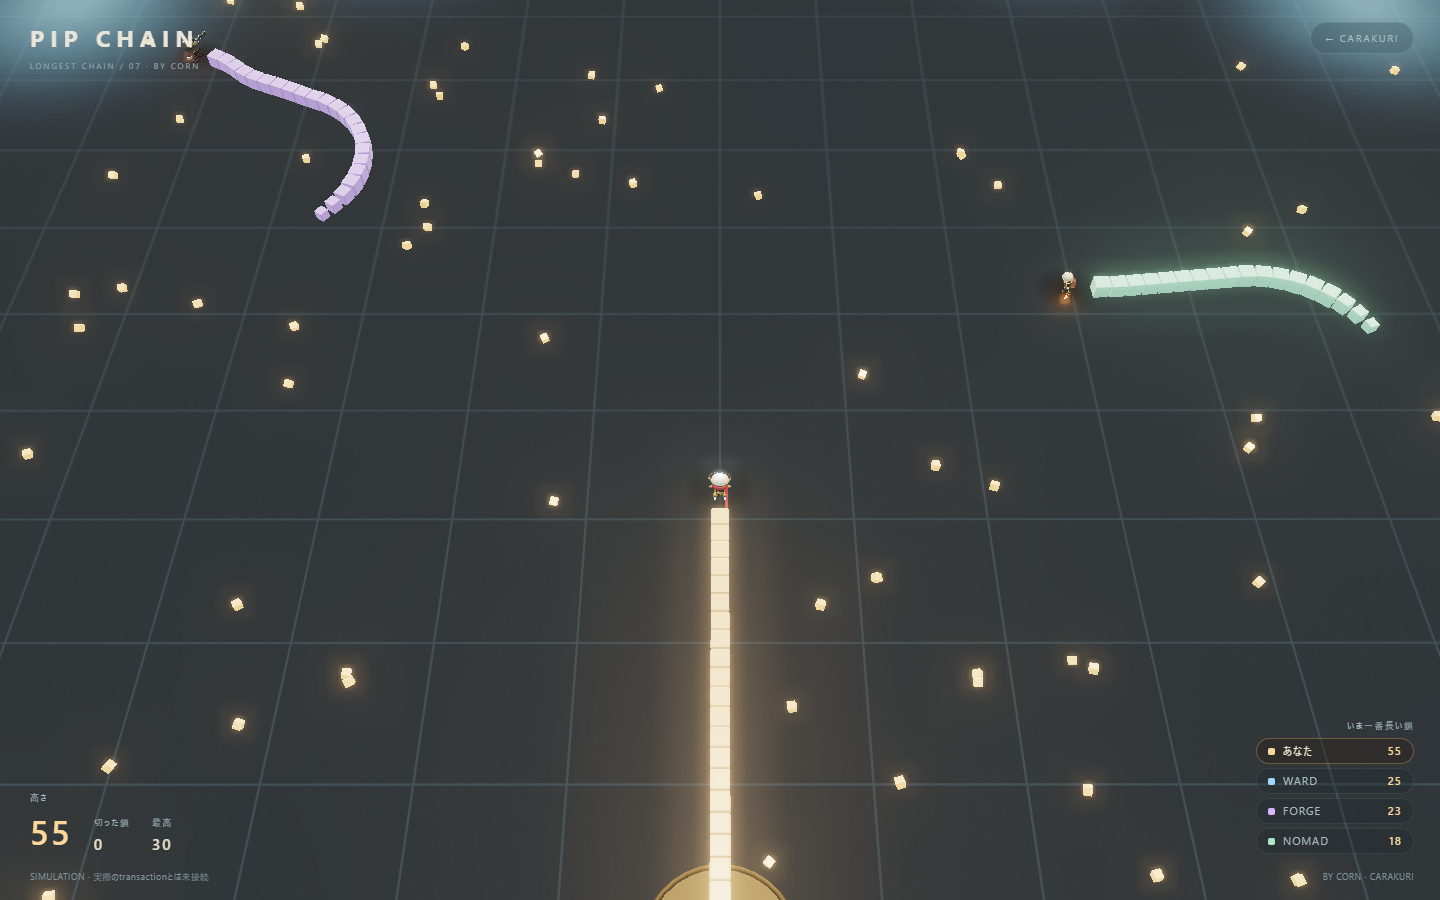
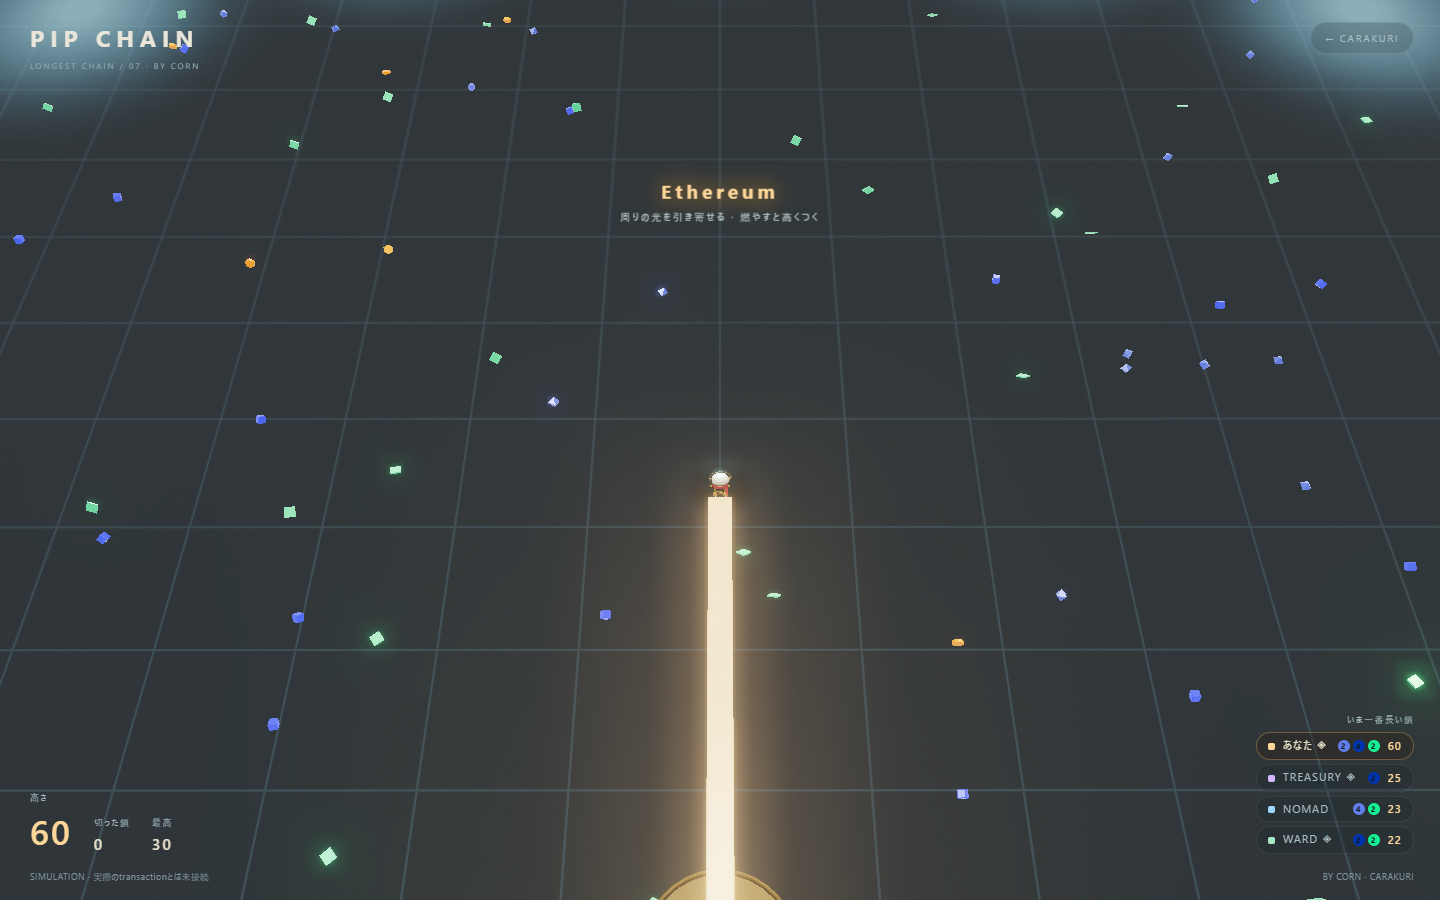
chain: four kinds of block, logarithmic girth, and the price of it
The floor now deals Bitcoin, Ethereum, Cardano and Solana, each its own
shape as well as its own colour (a hex coin, a diamond, the block, a
tile), and each its own instanced mesh so the floor is still drawn in
four calls. Solana is dealt most, Bitcoin least.

Picking one up does what the chain it came from suggests: Bitcoin is
worth two but weighs on the turn for a moment; Ethereum pulls the floor
in around the head and makes burning dearer while it lasts; Cardano
leaves a shield that takes the next hit for one block; Solana is just
plentiful. Every chain, not only the player's, gets these.

Girth is now log1p(len/40), so a long chain reads as stout without
burying the field mid-run, and it costs something: the turn is divided
by the girth and the head's reach grows with it. Burning still takes
the oldest block.

The board shows each chain's mix as counted dots and marks a held
shield. The rules card lists the four kinds. The test lays down a
Solana block for the plain growth check, adds checks for the three
effects and the shield, and clears shields before the collision
checks, since a chain that picked up Cardano on the way would survive.

diff --git a/chain/viewer.js b/chain/viewer.js
@@ -5,7 +5,7 @@ import {RenderPass} from 'three/addons/postprocessing/RenderPass.js';
 import {UnrealBloomPass} from 'three/addons/postprocessing/UnrealBloomPass.js';
 import {OutputPass} from 'three/addons/postprocessing/OutputPass.js';
 import {RACERS,racerById,pickClip} from '../racer/racers.js';
-import {buildField,buildBody,buildLoose,buildBlobShadow,buildBurst,buildGear,FIELD,SEG_GAP,HEAD_GAP,HUES} from './model.js';
+import {buildField,buildBody,buildLoose,buildBlobShadow,buildBurst,buildGear,FIELD,SEG_GAP,HEAD_GAP,HUES,KINDS} from './model.js';
 
 const $=s=>document.querySelector(s);
 
@@ -23,6 +23,14 @@ const EAT_R=1.7, HIT_R=.85;
 const LOOSE_MAX=680, SEED_TARGET=300, SEED_RATE=7;
 const AI_COUNT=3, AI_LOOK=10.5, RESPAWN=2.6;
 const GEAR_TIME=4.5, GEAR_EVERY=9, GEAR_LIFE=12, GEAR_MAX=2;
+// What each kind of block does when it is picked up. Bitcoin is worth two but
+// sits heavy on the turn for a moment; Ethereum pulls the floor in around the
+// head and makes burning dearer while it does; Cardano leaves a shield that
+// takes the next hit for one block; Solana is just plentiful.
+const BTC=0,ETH=1,ADA=2,SOL=3;
+const SLOW_TIME=3.2, SLOW_TURN=.7;
+const MAGNET_TIME=3.0, MAGNET_R=8, MAGNET_PULL=13, MAGNET_BURN=.55;
+const SHIELD_MAX=1, SHIELD_GRACE=.6;
 const LETHAL=FIELD-.5;
 
 const renderer=new T.WebGLRenderer({antialias:true});
@@ -48,15 +56,23 @@ const bloom=new UnrealBloomPass(new T.Vector2(innerWidth,innerHeight),.30,.72,.9
 composer.addPass(bloom);composer.addPass(new OutputPass());
 
 // --- loose transactions: flat arrays, swapped in from the end when one is taken ---
-const loose={n:0,x:new Float32Array(LOOSE_MAX),z:new Float32Array(LOOSE_MAX),r:new Float32Array(LOOSE_MAX)};
-const looseMesh=buildLoose(LOOSE_MAX);scene.add(looseMesh);
-function addLoose(x,z){
+const loose={n:0,x:new Float32Array(LOOSE_MAX),z:new Float32Array(LOOSE_MAX),r:new Float32Array(LOOSE_MAX),k:new Uint8Array(LOOSE_MAX)};
+const looseMeshes=buildLoose(LOOSE_MAX);for(const m of looseMeshes)scene.add(m);
+// The floor deals kinds by weight: Solana most, Bitcoin least.
+const KW=KINDS.map(k=>k.weight),KW_SUM=KW.reduce((a,b)=>a+b,0);
+function dealKind(){
+ let r=Math.random()*KW_SUM;
+ for(let i=0;i<KW.length;i++){r-=KW[i];if(r<=0)return i;}
+ return KW.length-1;
+}
+function addLoose(x,z,kind){
  if(loose.n>=LOOSE_MAX)return;
  const i=loose.n++;loose.x[i]=x;loose.z[i]=z;loose.r[i]=Math.random()*9;
+ loose.k[i]=kind===undefined?dealKind():kind;
 }
 function takeLoose(i){
  const j=--loose.n;
- loose.x[i]=loose.x[j];loose.z[i]=loose.z[j];loose.r[i]=loose.r[j];
+ loose.x[i]=loose.x[j];loose.z[i]=loose.z[j];loose.r[i]=loose.r[j];loose.k[i]=loose.k[j];
 }
 function scatter(n){
  for(let k=0;k<n;k++){
@@ -110,6 +126,7 @@ function makeChain(i,entry){
   px:new Float32Array(CAP),pz:new Float32Array(CAP),n:0,
   x:0,z:0,a:0,len:START_LEN,alive:false,wait:0,
   boost:false,burn:0,gear:0,hunt:0,huntIn:4+Math.random()*7,cut:0,peak:START_LEN,
+  slow:0,magnet:0,shield:0,grace:0,got:[0,0,0,0],
  };
 }
 function setMotion(ch,name){
@@ -134,6 +151,7 @@ function seed(ch,x,z,a){
   ch.px[ch.n%CAP]=x-dx*k*STEP;ch.pz[ch.n%CAP]=z-dz*k*STEP;ch.n++;
  }
  ch.len=START_LEN;ch.peak=START_LEN;ch.alive=true;ch.wait=0;ch.boost=false;ch.burn=0;ch.gear=0;
+ ch.slow=0;ch.magnet=0;ch.shield=0;ch.grace=0;ch.got=[0,0,0,0];
  ch.fig.root.visible=true;
  layout(ch);
 }
@@ -190,7 +208,11 @@ function advance(ch,dist){
 const wrap=a=>{while(a>Math.PI)a-=Math.PI*2;while(a<-Math.PI)a+=Math.PI*2;return a;};
 // How stout this chain's blocks are: the length shows on the body itself, and
 // on what the body can catch.
-function scaleOf(ch){return 1+Math.min(ch.len/MAX_LEN,1)*.55;}
+// Logarithmic, so a long chain is visibly stout without filling the field by
+// the middle of a run the way a straight ratio did.
+function scaleOf(ch){return 1+Math.log1p(ch.len/40)*.38;}
+// How wide the head catches: a stout head gathers more, and cannot slip past.
+function eatR(ch){return EAT_R+(scaleOf(ch)-1)*.9;}
 function steer(ch,want,rate,dt){
  const d=wrap(want-ch.a),m=rate*dt;
  ch.a=wrap(ch.a+(Math.abs(d)<m?d:Math.sign(d)*m));
@@ -228,7 +250,7 @@ function drive(ch,dt){
   const score=reach*1.6-Math.abs(wrap(a-want))*2.4;
   if(score>bestScore){bestScore=score;bestA=a;}
  }
- steer(ch,bestA,AI_TURN,dt);
+ steer(ch,bestA,AI_TURN*(ch.slow>0?SLOW_TURN:1)/Math.sqrt(scaleOf(ch)),dt);
  ch.boost=ch.hunt>0&&ch.len>24;
 }
 
@@ -268,6 +290,7 @@ const sfx={
  // Every block picked up climbs a step; the ladder starts over as it wraps.
  pick(len){tone(500+(len%12)*30,.09,'triangle',.1,1.4);},
  gear(){tone(880,.08,'triangle',.1);tone(1320,.1,'triangle',.1,1,.07);},
+ shield(){tone(420,.16,'triangle',.12,1.6);tone(640,.18,'sine',.1,1.2,.06);},
  burn(){tone(230,.05,'square',.05,.75);},
  cut(){tone(340,.26,'sawtooth',.13,.45);tone(1100,.14,'triangle',.09,.6,.03);},
  down(){tone(160,.55,'sawtooth',.16,.4);tone(90,.6,'sine',.14,.6,.08);},
@@ -381,12 +404,19 @@ function hud(){
  const rank=chains.slice().sort((p,q)=>q.len-p.len);
  const board=$('#board');
  if(board.children.length!==rank.length)
-  board.innerHTML=rank.map(()=>'<li><i></i><span></span><b></b></li>').join('');
+  board.innerHTML=rank.map(()=>'<li><i></i><span></span><em class="mix">'+KINDS.map(k=>'<u style="--k:#'+k.color.toString(16).padStart(6,'0')+'"></u>').join('')+'</em><b></b></li>').join('');
  [...board.children].forEach((li,k)=>{
   const c=rank[k];
   li.className=c.i===0?'you':'';
   li.querySelector('i').style.background='#'+c.hue.color.toString(16).padStart(6,'0');
-  li.querySelector('span').textContent=c.name;
+  li.querySelector('span').textContent=c.name+(c.shield>0?' ◈':'');
+  // The mix: one dot per kind, carrying how many of it this chain has taken.
+  const dots=li.querySelectorAll('.mix u');
+  for(let j=0;j<4;j++){
+   const n=c.got[j];
+   dots[j].textContent=n>0?n:'';
+   dots[j].classList.toggle('on',n>0);
+  }
   li.querySelector('b').textContent=c.alive?c.len:'—';
  });
 }
@@ -402,25 +432,32 @@ function step(dt){
    continue;
   }
   if(ch.i===0){
-   if(ctl.mode==='keys'&&(ctl.left||ctl.right))ch.a=wrap(ch.a+((ctl.left?1:0)-(ctl.right?1:0))*TURN*dt);
+   // The price of length: a stout chain turns like one. Bitcoin sits on the
+   // turn as well for a moment after it is taken.
+   const turn=TURN*(ch.slow>0?SLOW_TURN:1)/scaleOf(ch);
+   if(ctl.mode==='keys'&&(ctl.left||ctl.right))ch.a=wrap(ch.a+((ctl.left?1:0)-(ctl.right?1:0))*turn*dt);
    else{
     const want=ctl.mode==='stick'?ctl.dir:Math.atan2(ctl.tx-ch.x,ctl.tz-ch.z);
     // A gentle wish gets the gentle circle; a wish for the opposite direction
     // is answered hard, so a reversal is a snap rather than a wide arc.
-    const rate=TURN*(1+1.7*Math.min(1,Math.abs(wrap(want-ch.a))/Math.PI));
+    const rate=turn*(1+1.7*Math.min(1,Math.abs(wrap(want-ch.a))/Math.PI));
     steer(ch,want,rate,dt);
    }
    ch.boost=ctl.boost;
   }else drive(ch,dt);
 
   if(ch.gear>0)ch.gear-=dt;
+  if(ch.slow>0)ch.slow-=dt;
+  if(ch.magnet>0)ch.magnet-=dt;
+  if(ch.grace>0)ch.grace-=dt;
   const burning=ch.boost&&ch.len>MIN_BOOST&&ch.gear<=0; // a turning gear pays instead
   const fast=burning||ch.gear>0;
   advance(ch,(fast?BOOST_SPEED:SPEED)*dt);
   if(burning){
    ch.burn+=dt;
-   while(ch.burn>=BURN_EVERY&&ch.len>MIN_BOOST){
-    ch.burn-=BURN_EVERY;
+   const every=BURN_EVERY*(ch.magnet>0?MAGNET_BURN:1); // dearer while the magnet runs
+   while(ch.burn>=every&&ch.len>MIN_BOOST){
+    ch.burn-=every;
     const tail=ch.seg[ch.len-1];
     addLoose(tail.x,tail.z);ch.len--;
     if(ch.i===0)sfx.burn();
@@ -448,18 +485,47 @@ function step(dt){
    }
    if(hitBy)break;
   }
-  if(hitBy)kill(ch,hitBy);
+  if(hitBy){
+   if(ch.grace>0)continue;
+   if(ch.shield>0&&ch.len>MIN_BOOST){
+    // The shield takes it: one block gone from the tail, and a breath of grace
+    // so the same body does not take the head again on the next frame.
+    ch.shield--;ch.grace=SHIELD_GRACE;
+    const tail=ch.seg[ch.len-1];addLoose(tail.x,tail.z,ADA);ch.len--;
+    burst(ch.x,ch.z,0x1a4dff);
+    if(ch.i===0){flash('盾が受けた','ブロック1つで耐えた');sfx.shield();}
+    continue;
+   }
+   kill(ch,hitBy);
+  }
  }
 
- // light off the floor
+ // light off the floor: what it is decides what it does
  for(const ch of chains){
   if(!ch.alive)continue;
+  const er=eatR(ch),er2=er*er,pulling=ch.magnet>0;
   for(let i=loose.n-1;i>=0;i--){
-   const dx=loose.x[i]-ch.x,dz=loose.z[i]-ch.z;
-   if(dx*dx+dz*dz<EAT_R*EAT_R){
+   let dx=loose.x[i]-ch.x,dz=loose.z[i]-ch.z,d2=dx*dx+dz*dz;
+   if(pulling&&d2<MAGNET_R*MAGNET_R&&d2>er2*.5){
+    const d=Math.sqrt(d2),m=Math.min(d,MAGNET_PULL*dt)/d;
+    loose.x[i]-=dx*m;loose.z[i]-=dz*m;
+    dx=loose.x[i]-ch.x;dz=loose.z[i]-ch.z;d2=dx*dx+dz*dz;
+   }
+   if(d2<er2){
+    const kind=loose.k[i];
     takeLoose(i);
-    if(ch.len<MAX_LEN)ch.len++;
-    if(ch.i===0)sfx.pick(ch.len);
+    ch.got[kind]++;
+    let gain=1;
+    if(kind===BTC){gain=2;ch.slow=SLOW_TIME;}
+    else if(kind===ETH){ch.magnet=MAGNET_TIME;}
+    else if(kind===ADA){if(ch.shield<SHIELD_MAX)ch.shield++;}
+    ch.len=Math.min(MAX_LEN,ch.len+gain);
+    if(ch.i===0){
+     sfx.pick(ch.len);
+     if(kind===BTC)flash('Bitcoin +2','数秒、曲がりが重い');
+     else if(kind===ETH)flash('Ethereum','周りの光を引き寄せる · 燃やすと高くつく');
+     else if(kind===ADA&&ch.shield===1&&ch.got[ADA]===1)flash('Cardano','次の一撃を盾が受ける');
+    }
    }
   }
  }
@@ -524,13 +590,17 @@ function draw(dt){
   ch.fig.tick(S.t,ch.motion,dt,0);
  }
  SC.set(1,1,1);
+ // Each kind is its own mesh, so the floor is walked once and every block is
+ // filed under the mesh that draws its shape.
+ const kn=[0,0,0,0];
  for(let i=0;i<loose.n;i++){
+  const k=loose.k[i];
   EU.set(S.t*1.2+loose.r[i],S.t*1.6+loose.r[i]*2,0);QT.setFromEuler(EU);
   V3.set(loose.x[i],.5+Math.sin(S.t*2.4+loose.r[i])*.11,loose.z[i]);
   M4.compose(V3,QT,SC);
-  looseMesh.setMatrixAt(i,M4);
+  looseMeshes[k].setMatrixAt(kn[k]++,M4);
  }
- looseMesh.count=loose.n;looseMesh.instanceMatrix.needsUpdate=true;
+ for(let k=0;k<4;k++){looseMeshes[k].count=kn[k];looseMeshes[k].instanceMatrix.needsUpdate=true;}
 
  for(const b of bursts){
   if(b.t>=1){b.o.visible=false;continue;}
@@ -582,5 +652,5 @@ const frame=()=>new Promise(r=>setTimeout(r,0));
  scatter(SEED_TARGET);draw(0);hud();
  $('#loading').classList.add('done');
  $('#start').onclick=start;
- window.pipChain={S,chains,loose,gears,scene,camera,start,kill,addLoose,scatter,ctl,best,stickDir,scaleOf};
+ window.pipChain={S,chains,loose,looseMeshes,KINDS,gears,scene,camera,start,kill,addLoose,scatter,ctl,best,stickDir,scaleOf,eatR};
 })();

diff --git a/chain/model.js b/chain/model.js
@@ -97,18 +97,31 @@ export function buildBody(hue,max){
  return mesh;
 }
 
-// Loose transactions lying on the floor. All of them are amber whether they
-// were laid out at the start or dropped by a chain that came apart, because in
-// both cases they are the same thing: work waiting to be picked up again.
+// Loose transactions lying on the floor, one kind per chain they came from.
+// Colour alone does not carry at this camera height on a block this small, so
+// each kind also has its own shape, and each kind is its own instanced mesh:
+// a hexagonal coin for Bitcoin, a diamond for Ethereum, the rounded block for
+// Cardano, a thin tile for Solana. Weight is how often the floor deals it.
+export const KINDS=[
+ {id:'btc',name:'Bitcoin', color:0xF7931A,emissive:0xb85e00,weight:.12,
+  geo:()=>new T.CylinderGeometry(.21,.21,.13,6)},
+ {id:'eth',name:'Ethereum',color:0x627EEA,emissive:0x2f45b8,weight:.18,
+  geo:()=>new T.OctahedronGeometry(.24,0)},
+ {id:'ada',name:'Cardano', color:0x0033AD,emissive:0x1a4dff,glow:1.3,weight:.25,
+  geo:()=>new RoundedBoxGeometry(.3,.3,.3,3,.03)},
+ {id:'sol',name:'Solana',  color:0x14F195,emissive:0x0a8f58,weight:.45,
+  geo:()=>new T.BoxGeometry(.4,.06,.4)},
+];
 export function buildLoose(max){
- const mesh=new T.InstancedMesh(
-  new RoundedBoxGeometry(.3,.3,.3,3,.03),
-  new T.MeshStandardMaterial({color:0xffdb8d,emissive:0xffa324,emissiveIntensity:.7,metalness:.25,roughness:.18}),
-  max);
- mesh.frustumCulled=false;
- mesh.castShadow=mesh.receiveShadow=false;
- mesh.count=0;
- return mesh;
+ return KINDS.map(k=>{
+  const mesh=new T.InstancedMesh(k.geo(),
+   new T.MeshStandardMaterial({color:k.color,emissive:k.emissive,emissiveIntensity:k.glow||.8,metalness:.3,roughness:.2}),
+   max);
+  mesh.frustumCulled=false;
+  mesh.castShadow=mesh.receiveShadow=false;
+  mesh.count=0;
+  return mesh;
+ });
 }
 
 // The one thing on the floor that is not a transaction: a gear. Whoever runs

diff --git a/chain/style.css b/chain/style.css
@@ -28,6 +28,13 @@ header{position:fixed;top:22px;left:30px;right:26px;display:flex;justify-content
 #board li i{width:7px;height:7px;border-radius:2px;flex:none}
 #board li span{flex:1;white-space:nowrap}
 #board li b{font-weight:600;color:#ffd79a}
+.rules li.kinds{font-size:.92em;line-height:1.9;display:flex;flex-wrap:wrap;gap:2px 16px}
+.rules li.kinds .kd{white-space:nowrap}
+.rules li.kinds i{display:inline-block;width:9px;height:9px;border-radius:2px;background:var(--k);margin:0 5px 0 0;vertical-align:-1px}
+/* the mix: one dot per kind, lit once the chain has taken any of it */
+#board li .mix{display:flex;gap:3px;align-items:center;font-style:normal}
+#board li .mix u{display:none;text-decoration:none;min-width:12px;height:12px;padding:0 3px;border-radius:6px;font-size:8px;line-height:12px;text-align:center;color:#0f1618;background:var(--k);font-weight:700}
+#board li .mix u.on{display:inline-block}
 
 #boost{pointer-events:auto;display:none;border:1px solid #e2705f55;border-radius:40px;background:#e2705f1f;color:#ffd0c4;font-size:11px;letter-spacing:3px;padding:16px 34px;backdrop-filter:blur(10px);-webkit-user-select:none;user-select:none}
 #boost:active{background:#e2705f4d}
@@ -75,6 +82,7 @@ button:focus-visible{outline:2px solid #e0cb87;outline-offset:3px}
  #board{min-width:0}
  #board li{font-size:9px;padding:4px 8px;gap:6px}
  #board li span{max-width:66px;overflow:hidden;text-overflow:ellipsis}
+ #board li .mix u{min-width:10px;height:10px;font-size:7px;line-height:10px}
  .boardlabel{display:none}
  footer{display:none}
  #pickup{top:16%}

diff --git a/chain/index.html b/chain/index.html
@@ -33,7 +33,14 @@
     <div id="o-score" hidden></div>
     <ul class="rules">
       <li><b>曲げるだけ</b> ‥ 前進は自動。スマホは画面のどこでも指をずらす、PCはカーソルか ← →</li>
-      <li><b>拾えば伸びる</b> ‥ 琥珀のtransactionが1つ、後ろのブロック1つになります</li>
+      <li><b>拾えば伸びる</b> ‥ 床のtransactionが1つ、後ろのブロック1つになります。4種あります</li>
+      <li class="kinds">
+        <span class="kd"><i style="--k:#F7931A"></i><b>Bitcoin</b> 六角 · +2、数秒曲がりが重い</span>
+        <span class="kd"><i style="--k:#627EEA"></i><b>Ethereum</b> 菱形 · 周りを引き寄せ、燃やすと高い</span>
+        <span class="kd"><i style="--k:#0033AD"></i><b>Cardano</b> 立方 · 次の一撃を盾が受ける</span>
+        <span class="kd"><i style="--k:#14F195"></i><b>Solana</b> 板 · +1、数が多い</span>
+      </li>
+      <li><b>長いほど太い</b> ‥ 太い鎖は曲がりにくく、頭は広く拾います。燃やすのは一番古い末尾から</li>
       <li><b>自分の鎖は通り抜ける</b> ‥ 終わるのは、<em>他の鎖</em>か<em>外の壁</em>に頭からぶつかったとき</li>
       <li><b>相手の頭を自分の鎖に当てる</b> ‥ その分岐は捨てられ、抱えていた分が光になって落ちます</li>
       <li><b>BURN</b> ‥ 長押しで加速。かわりに末尾を1つずつ手放します（SPACE / SHIFT）</li>
